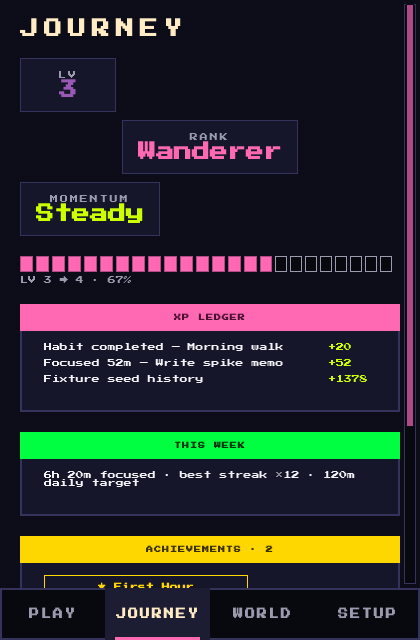
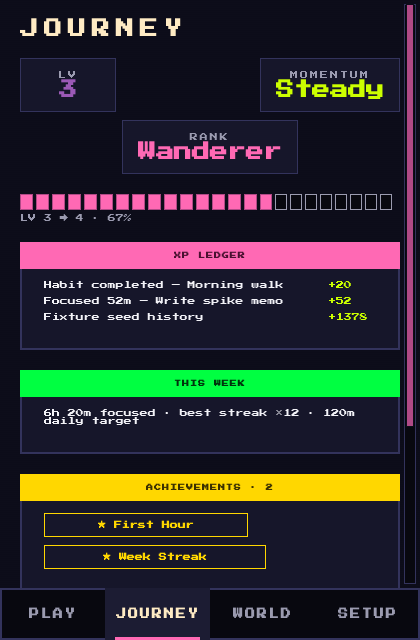
fix(#93): two-line zigzag stat tiles — ends apart, RANK centered under
Final clarification of the '- _ -' composition request: line one pins LV
far LEFT and MOMENTUM far RIGHT (literal sides); line two centers RANK
in the middle below. Previous attempt stacked all three vertically
(three lines) because anchors.horizontalCenter inside a Column cannot
pin siblings to opposite ends. Now two anchored wrapper Items make the
pins exact.

diff --git a/arcade/screens/JourneyScreen.qml b/arcade/screens/JourneyScreen.qml
@@ -12,20 +12,48 @@ ArcadeScreen {
     property var fixture: FixtureLoader.load()
     readonly property var lvl: fixture ? FixtureLoader.levelProgress(fixture) : { have: 0, need: 1 }
 
-    // ── stat tiles — deliberate zigzag composition (Mohamed live pass):
-    // 1 left · 2 centered on its own line under · 3 left. One cramped row
-    // pushed MOMENTUM to the right edge and ate its label on narrow panels.
+    // ── stat tiles — two-line zigzag composition ("- _ -", Mohamed live
+    // pass): LV pinned far LEFT + MOMENTUM pinned far RIGHT on the first
+    // line, RANK dead-center on its own line under. Anchored Items (not
+    // positioners) so the pins are exact.
     Column {
         width: parent.width
         spacing: Theme.space(2)
 
-        StatChip { label: "LV"; value: String(root.fixture.progression.level); valueColor: Theme.manaPurple }
-        StatChip {
-            label: "RANK"
-            value: root.fixture.progression.storyRank
-            anchors.horizontalCenter: parent.horizontalCenter
+        Item {
+            width: parent.width
+            height: Math.max(statLv.height, statMomentum.height)
+
+            StatChip {
+                id: statLv
+                anchors.left: parent.left
+                anchors.top: parent.top
+                label: "LV"
+                value: String(root.fixture.progression.level)
+                valueColor: Theme.manaPurple
+            }
+            StatChip {
+                id: statMomentum
+                anchors.right: parent.right
+                anchors.top: parent.top
+                label: "MOMENTUM"
+                value: root.fixture.progression.momentum
+                valueColor: Theme.electricLime
+            }
         }
-        StatChip { label: "MOMENTUM"; value: root.fixture.progression.momentum; valueColor: Theme.electricLime }
+
+        Item {
+            width: parent.width
+            height: statRank.height
+
+            StatChip {
+                id: statRank
+                anchors.horizontalCenter: parent.horizontalCenter
+                anchors.top: parent.top
+                label: "RANK"
+                value: root.fixture.progression.storyRank
+            }
+        }
     }
 
     // ── XP to next level (real rule) ───────────────────────────
